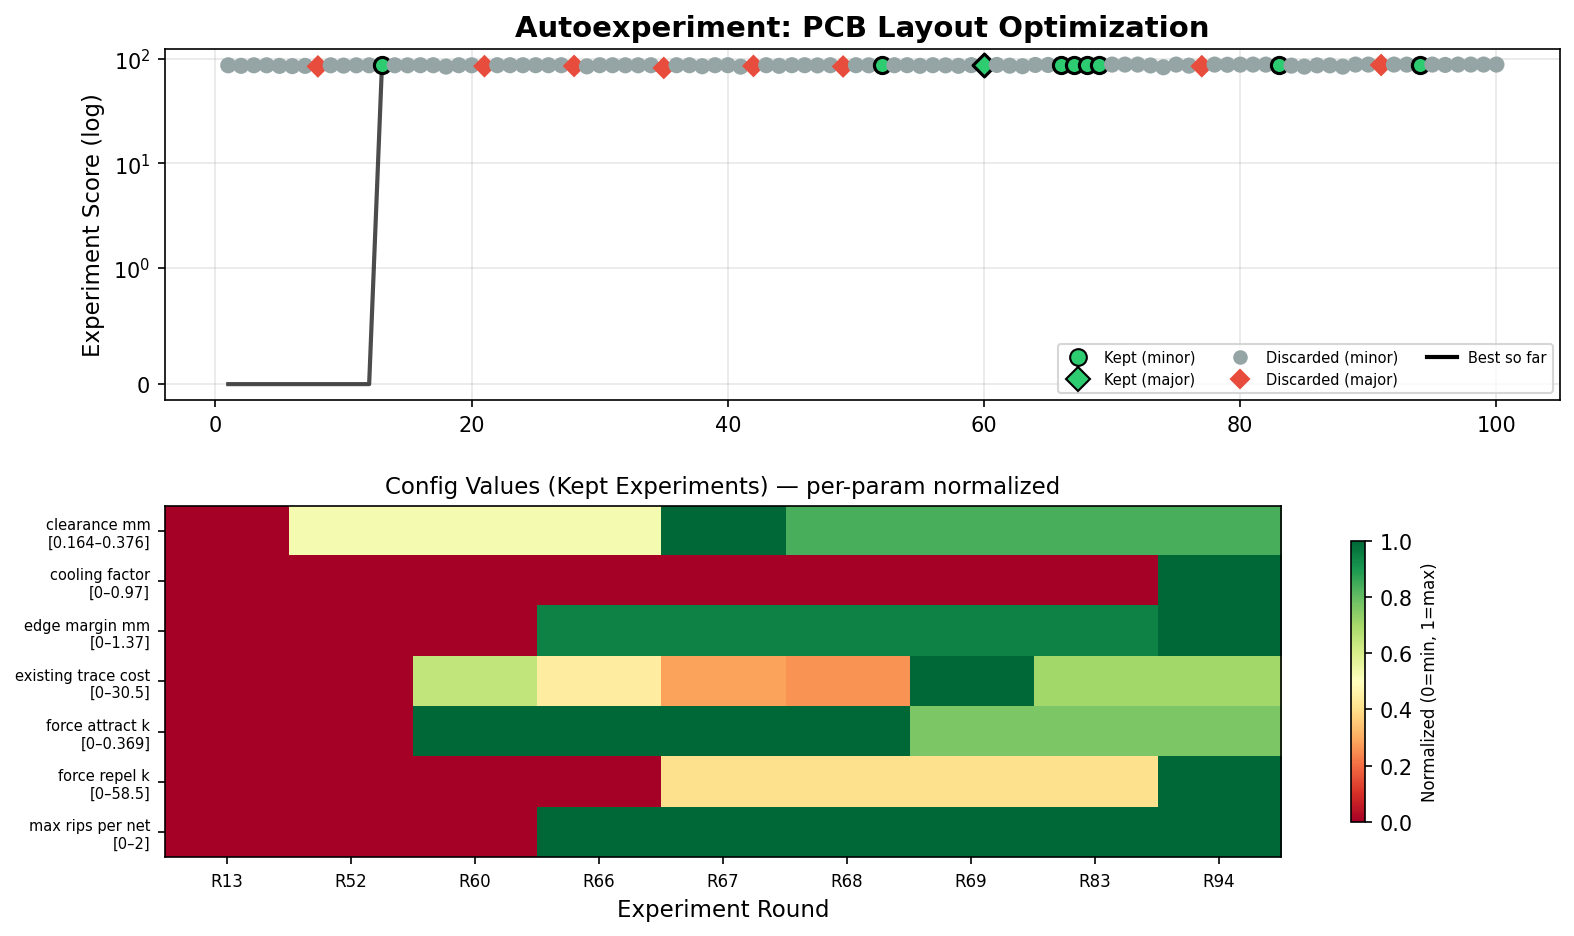
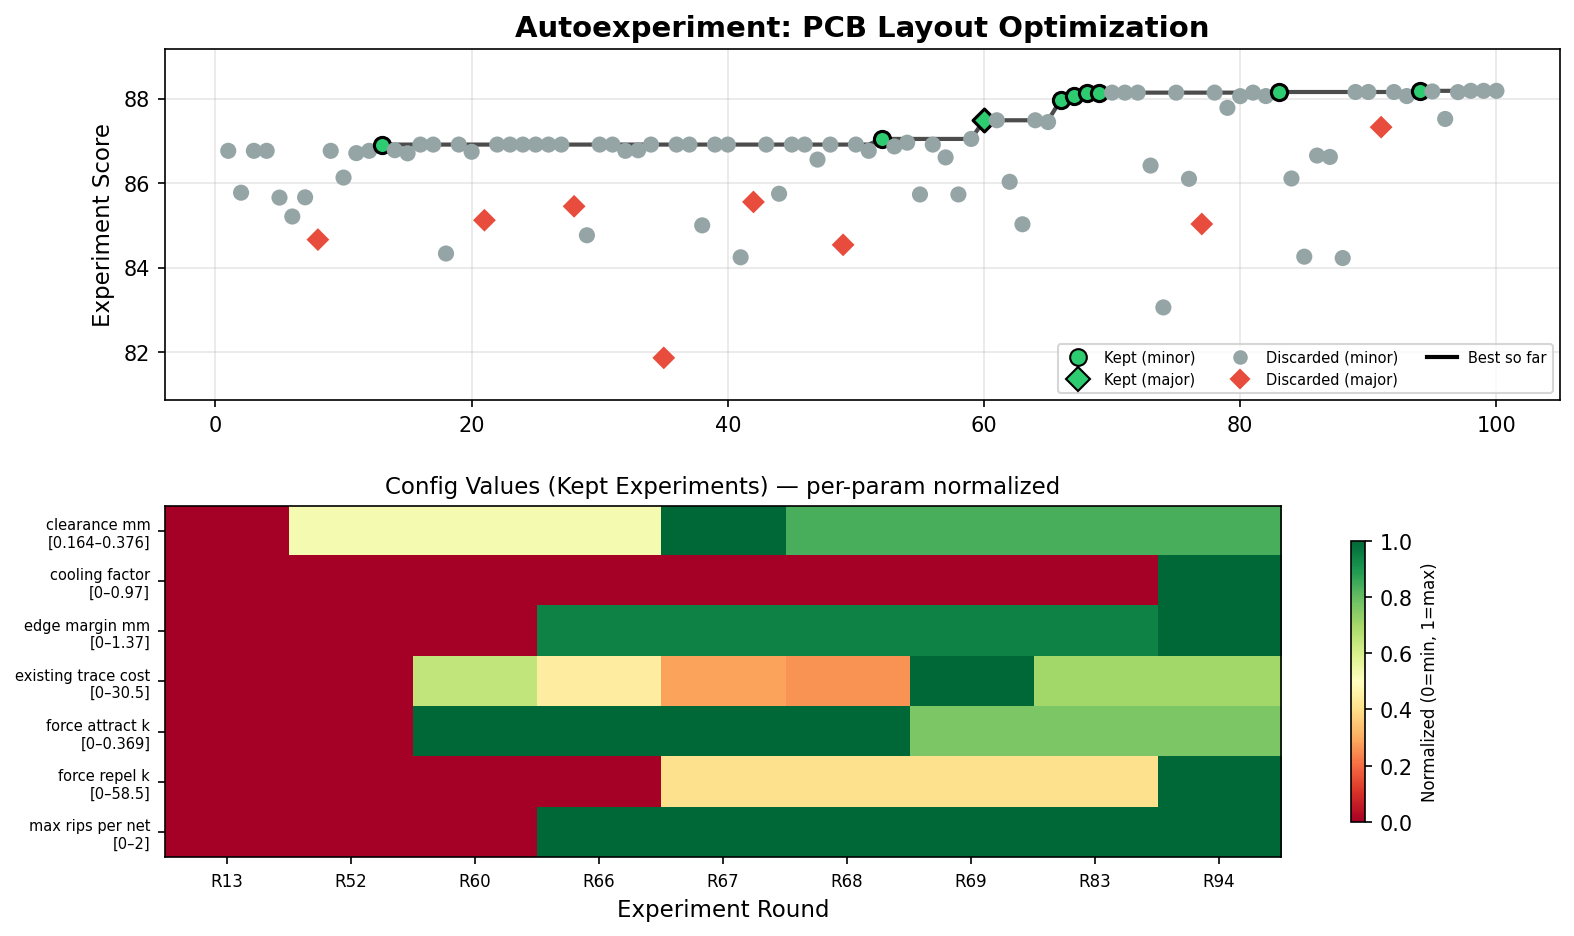
Zoom experiment score y-axis to data range
Drop log scale, clip best-so-far line to first kept result,
and set y-limits to [min_score-1, max_score+1] for detail.

diff --git a/.claude/skills/kicad-helper/scripts/plot_experiments.py b/.claude/skills/kicad-helper/scripts/plot_experiments.py
@@ -46,9 +46,20 @@ def plot_experiments(experiments, output_path):
         ax1.scatter(r, s, c=color, marker=marker, s=60, zorder=5,
                     edgecolors="black" if k else "none", linewidths=1.5 if k else 0)
 
-    ax1.plot(rounds, best, "k-", linewidth=2, alpha=0.7, label="Best so far")
-    ax1.set_ylabel("Experiment Score (log)", fontsize=11)
-    ax1.set_yscale("symlog", linthresh=1)
+    # Best-so-far starts at 0 before first kept — clip to actual scores for display
+    first_kept_idx = next((i for i, b in enumerate(best) if b > 0), 0)
+    best_display = best[first_kept_idx:]
+    rounds_display = rounds[first_kept_idx:]
+    ax1.plot(rounds_display, best_display, "k-", linewidth=2, alpha=0.7, label="Best so far")
+
+    # Zoom y-axis to the data range with some padding
+    all_scores_nonzero = [s for s in scores if s > 0]
+    if all_scores_nonzero:
+        y_min = min(all_scores_nonzero) - 1
+        y_max = max(all_scores_nonzero) + 1
+        ax1.set_ylim(y_min, y_max)
+
+    ax1.set_ylabel("Experiment Score", fontsize=11)
     ax1.set_title("Autoexperiment: PCB Layout Optimization", fontsize=14, fontweight="bold")
     ax1.legend(loc="lower right", fontsize=9)
     ax1.grid(True, alpha=0.3)
